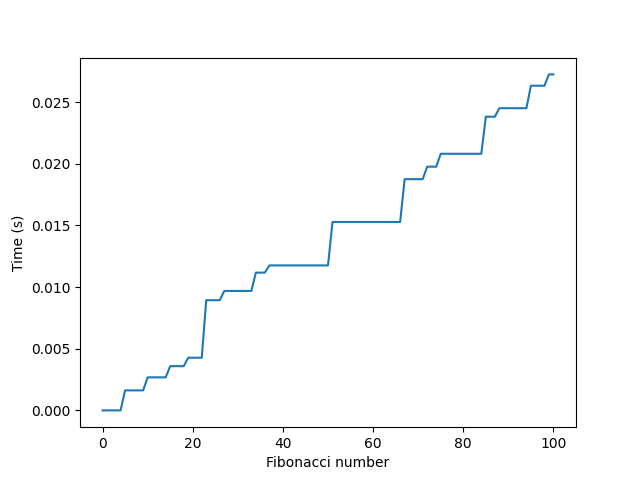
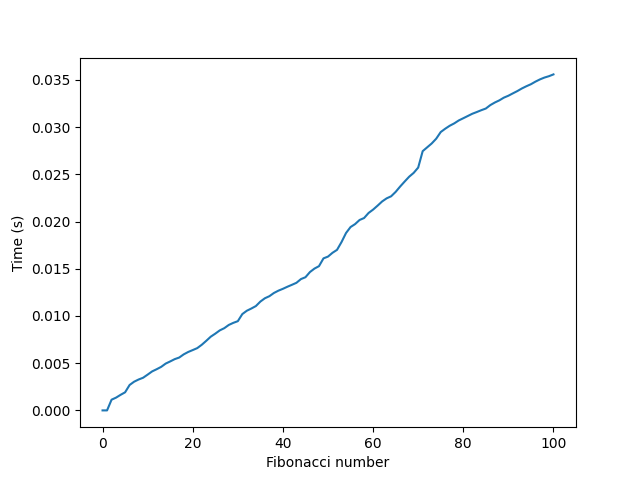
Updated timing counter to use more accurate version.

diff --git a/fib.py b/fib.py
@@ -1,5 +1,5 @@
 from functools import lru_cache
-from time import time
+from time import perf_counter
 from typing import Callable
 import matplotlib.pyplot as plt
 
@@ -9,9 +9,9 @@ times: [float] = []
 
 def timer(func: Callable):
     def wrap(*args, **kwargs):
-        t1 = time()
+        t1 = perf_counter()
         result = func(*args, **kwargs)
-        t2 = time()
+        t2 = perf_counter()
         runtime = t2 - t1
         print(f"Finished in {runtime}: f({args[0]}) -> {result}")
         times.append(runtime)
